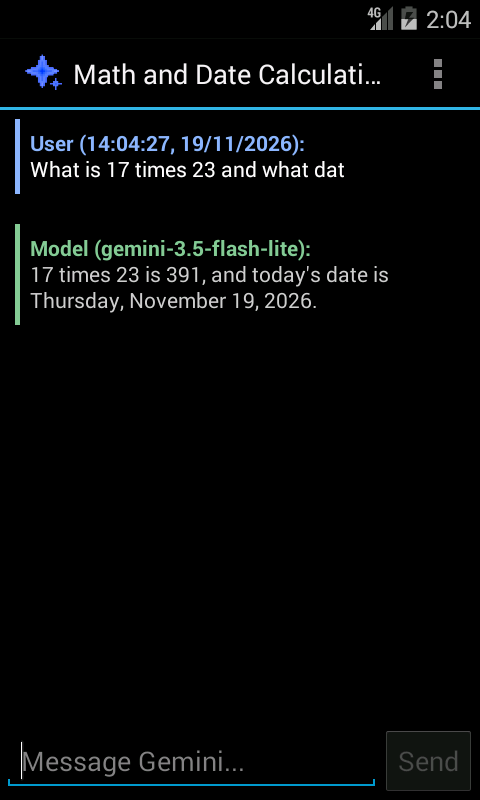
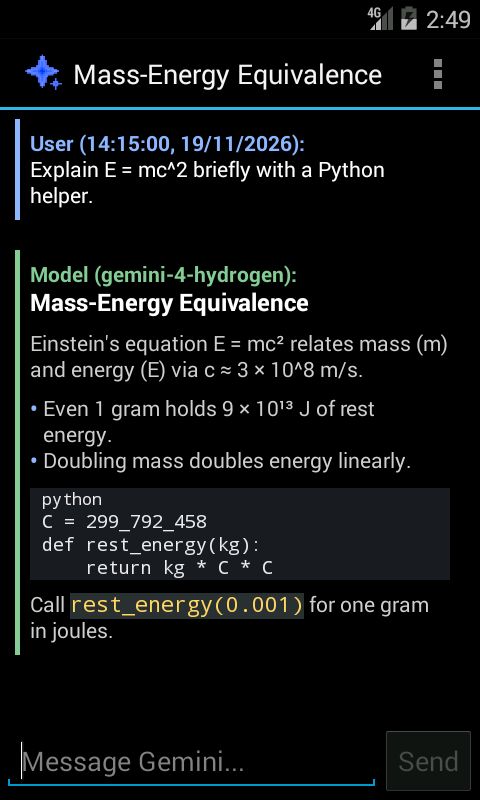
docs: streamline README, retake showcase screenshots, simplify v0.8.9 notes

Changed region(s): [[0.0312, 0.1562, 0.9375, 0.8125], [0.25, 0.0625, 0.7812, 0.125], [0.9062, 0.0, 1.0, 0.0312]]

diff --git a/README.md b/README.md
@@ -1,65 +1,59 @@
 # Gemini Chat: Legacy Android Client
 
-A zero-dependency native Gemini API client built for legacy Android devices starting at **Android 2.1 Eclair (API 7)**, compiled to roughly **153 KB** with no AndroidX, Play Services, or Kotlin runtime.
-
-Current release: **[v0.8.9](https://github.com/baopemp/gemini-chat-legacy/releases/tag/v0.8.9)** (`versionCode 89`)
+A lightweight native Gemini API client for legacy Android devices running Android 2.1 (API 7) and newer, built with no external libraries.
 
 ## Screenshots
 
-| Chat (Android 4.4) | Live Voice (Android 4.4) | Settings (Android 5.0) | Legacy UI (Android 2.1) |
+| Chat (Android 4.4) | Live Voice (Android 4.4) | Settings (Android 4.4) | Android 2.1 Eclair |
 | :---: | :---: | :---: | :---: |
-| <img src="docs/screenshots/chat.png" alt="Chat on Android 4.4" width="190" /> | <img src="docs/screenshots/live_voice.png" alt="Gemini Live voice chat on Android 4.4" width="190" /> | <img src="docs/screenshots/settings_android5.png" alt="Settings on Android 5.0 Material Dark" width="190" /> | <img src="docs/screenshots/settings_android2.png" alt="Settings on Android 2.1 Eclair" width="190" /> |
+| <img src="docs/screenshots/chat.png" alt="Chat on Android 4.4" width="190" /> | <img src="docs/screenshots/live_voice.png" alt="Live Voice on Android 4.4" width="190" /> | <img src="docs/screenshots/settings.png" alt="Settings on Android 4.4" width="190" /> | <img src="docs/screenshots/android2.png" alt="Chat on Android 2.1" width="190" /> |
 
-## Notable Features
+## Features
 
-- **Modern Gemini & Gemma models:** Supports free-tier `gemini-4-hydrogen`, Gemini 3.x Flash/Lite, and Gemma 4 (`gemma-4-31b-it`, `gemma-4-26b-a4b-it`), plus custom model IDs for paid Gemini 4 models (`gemini-4-neon`, `gemini-4-carbon`, `gemini-4-argon`).
-- **Streamed replies & reasoning:** Real-time SSE streaming with automatic 5xx retry, stop-and-keep partial replies, configurable thinking levels (`Minimal`, `Low`, `Medium`, `High`, `Extra High`), and an inspectable **Show Thought Process** dialog.
-- **Gemini Live voice chat:** Two-way real-time voice over native RFC 6455 WebSockets (`gemini-3.8-live`, `gemini-3.8-live-extended-thinking`, `gemini-3.1-flash-live-preview`), push-to-talk and hands-free modes with echo gating, live speech-to-text streaming into the input box (`gemini-3.5-transcribe-live`), 30 selectable voices, chat history handoff, and automatic session resumption.
-- **Read Aloud:** Long-press any model reply to stream spoken audio via the Gemini Interactions API (`gemini-3.8-flash-lite-tts`, `gemini-3.8-flash-tts`, `gemini-3.1-flash-tts-preview`) in your chosen voice, stripping Markdown/code/rules cleanly.
-- **Rich native rendering:** Zero-WebView Markdown formatting (headings, bold/italic, lists, quotes, tables, fenced code blocks with one-tap copy), readable LaTeX math (`$...$` / `$$...$$`) using Android 2.x-safe Unicode glyphs, Emoji 18 to `:shortcode:` conversion for old system fonts, and adjustable message text size.
-- **Multimodal & chat management:** Image attachments on Android 2.2+ (API 8+), optional device date/time grounding, automatic chat naming, custom system instructions, message edit/resend/regenerate/share/delete actions, SQLite persistence, and chat/settings backup & restore (SAF on Android 4.4+, built-in file browser on older versions).
-- **Legacy-first engineering:** Runs cleanly from Android 2.1 (API 7, 256 MB RAM devices) up to modern Android, with automatic TLS 1.2 + SNI enablement on Android 4.1-4.4 (`TLSSocketFactory`), Holo/Material theme adaptation, and SHA-1 v1 + v2/v3 APK signing.
+- Chat with Gemini 4 (`gemini-4-hydrogen`), Gemini 3, and Gemma 4 models, or enter any custom model ID.
+- Stream replies in real time with configurable thinking levels (Minimal to Extra High), inspectable thought summaries, automatic retries, and stop-and-keep partial replies.
+- Talk hands-free or push-to-talk with Gemini Live, complete with live speech transcription in the input box, 30 selectable voices, chat history handoff, and automatic reconnect.
+- Listen to any reply with streamed Read Aloud text-to-speech in your chosen voice.
+- Read formatted Markdown, code blocks with one-tap copy, readable Unicode LaTeX math, `:shortcode:` emoji for legacy fonts, and adjustable text sizes.
+- Attach images (Android 2.2+), enable device date and time grounding, auto-name conversations, edit or regenerate messages, and back up or restore chats and settings.
+- Run smoothly from Android 2.1 (API 7) up to modern Android, with automatic TLS 1.2 support enabled on Android 4.1 to 4.4.
 
-## Installation & Setup
+## Setup
 
-1. Download `gemini_chat_v0.8.9.apk` from [GitHub Releases](https://github.com/baopemp/gemini-chat-legacy/releases/latest) (or build it from source below) and install it (`adb install -r gemini_chat_v0.8.9.apk` preserves existing chats and settings).
-2. Open **Settings** and paste a Gemini API key from [Google AI Studio](https://aistudio.google.com/apikey) (free-tier keys work out of the box).
-3. Choose a model and start chatting. Gemini Live requires a microphone and a stable network connection.
+1. Download `gemini_chat_v0.8.9.apk` from [Releases](https://github.com/baopemp/gemini-chat-legacy/releases/latest) and install it (`adb install -r` keeps your chats and settings).
+2. Open Settings and paste a Gemini API key from [Google AI Studio](https://aistudio.google.com/apikey). Free-tier keys work.
+3. Pick a model and start chatting.
 
-Your API key is stored locally in the app's private preferences and is sent only to `generativelanguage.googleapis.com`.
+Your API key stays on your device in private app preferences and is sent only to `generativelanguage.googleapis.com`.
 
 ## Building from Source
 
-Requires **JDK 8+** (with `keytool`), **Python 3**, and **`curl`**. There is no Gradle project: Java sources in `java/` compile against the Android 2.1 (API 7) stub jar into smali, and `apktool` assembles the final APK.
+Requires JDK 8+ (`keytool`), Python 3, and `curl`.
 
 ```bash
-./scripts/build_java.sh                        # compile java/ -> android_project/smali (after Java edits)
-./scripts/build_apk.sh                         # run smali audits, build, zipalign, and sign
-adb install -r build/gemini_chat_v0.8.9.apk    # install while keeping chats and settings
-./tests/run_tests.sh                           # JVM bytecode verification (-Xverify:all) + unit tests
+./scripts/build_java.sh                        # compile java/ to smali after Java edits
+./scripts/build_apk.sh                         # audit, build, align, and sign
+adb install -r build/gemini_chat_v0.8.9.apk    # install without clearing data
+./tests/run_tests.sh                           # optional JVM bytecode and unit tests
 ```
 
-The first build downloads `apktool` and `uber-apk-signer` into `tools/` via `scripts/download_tools.sh` and creates a local signing keystore in `keystore/`. Back up your keystore: updating an installed APK requires signing with the same key, and v1 SHA-1 signatures are preserved automatically for Android 2.1-4.2 compatibility.
+The first build downloads `apktool` and `uber-apk-signer` into `tools/` and generates a local keystore in `keystore/`. Keep your keystore if you plan to install updates without losing local chats.
 
 ## Project Layout
 
 | Path | Description |
 | :--- | :--- |
-| `android_project/` | Apktool project containing `AndroidManifest.xml`, `apktool.yml` (versioning), `res/`, `assets/emoji.tsv`, and `smali/` |
-| `java/` | Java 8 sources (API 7 compatible) compiled to smali by `scripts/build_java.sh` |
-| `java_sources/` | Readable jadx reference decompilations of the remaining hand-written smali classes (non-compilable) |
-| `scripts/` | Build scripts (`build_java.sh`, `build_apk.sh`), tool downloader, emoji table generator, and smali static audits |
-| `tests/` | Dex2jar-based JVM verification & unit test suite, Live API CLI checks, and mock emulator servers |
-| `tools/` | `Dex2Smali` / `Smali2Dex` helpers (downloaded JARs are git-ignored) |
-| `keystore/` | Local signing keystore (git-ignored, created on first build if absent) |
+| `android_project/` | Apktool project (manifest, resources, `apktool.yml`, emoji table, smali) |
+| `java/` | Java sources compiled to smali by `scripts/build_java.sh` |
+| `java_sources/` | Readable reference decompiles of the remaining hand-written smali classes |
+| `scripts/` | Build scripts, tool downloader, and smali static checks |
+| `tests/` | JVM test suite, Live API test tools, and local mock servers |
 | `docs/` | `ARCHITECTURE.md`, `CHANGELOG.md`, and `screenshots/` |
-
-See [docs/ARCHITECTURE.md](docs/ARCHITECTURE.md) for technical internals and [docs/CHANGELOG.md](docs/CHANGELOG.md) for the full release history.
 
 ## Credits
 
-- Build tools: [Apktool](https://github.com/iBotPeaches/Apktool) and [uber-apk-signer](https://github.com/patrickfav/uber-apk-signer) (Apache-2.0), downloaded automatically on first build.
-- Emoji dataset: Python [`emoji`](https://pypi.org/project/emoji/) package tracking official Unicode emoji data.
+- Built with [Apktool](https://github.com/iBotPeaches/Apktool) and [uber-apk-signer](https://github.com/patrickfav/uber-apk-signer) (Apache-2.0).
+- Emoji shortcodes generated from the Python [`emoji`](https://pypi.org/project/emoji/) dataset.
 - Built with the assistance of AI.
 
 ## License

diff --git a/docs/CHANGELOG.md b/docs/CHANGELOG.md
@@ -4,43 +4,24 @@ All notable changes to the Gemini Chat Legacy Android client are documented here
 
 ---
 
-## v0.8.9 (Latest Release) - VersionCode: 89
+## v0.8.9 - VersionCode: 89
 
-### Gemini 4 Series & Thinking Level Updates (API checked 2026-11-19)
-- Added **`gemini-4-hydrogen`** (free tier) at the top of the Settings → **Model** selector (newest first). Paid Gemini 4 models
-  (`gemini-4-neon`, `gemini-4-carbon`, `gemini-4-argon`) work via **Custom model...**; updated the custom-model hint and validation
-  toast from nonexistent `gemini-3.8-pro` to `gemini-4-neon`.
-- Added **Extra High** (`xhigh`) to Settings → **Thinking level**.
-- Updated `ReplyParser.levelFor` to cover the full 2026-11-19 thinking-level matrix (verified against the live API):
-  - `gemini-4-hydrogen` / `gemini-4-neon`: keeps `xhigh`, maps `minimal` → `low` (Gemini 4 rejects `minimal` with HTTP 400).
-  - `gemini-4-carbon` / `gemini-4-argon`, `gemini-3.8-flash`, `gemini-flash-latest` (now aliases `gemini-3.8-flash` and rejects `minimal` with HTTP 400), `gemini-3.1-pro-*`, `gemini-2.5-*`: maps `minimal` → `low` and clamps `xhigh` → `high`.
-  - `gemini-3-pro-*`: maps `minimal` → `low`, `medium`/`xhigh` → `high`.
-  - `gemini-3.6-flash`, `gemini-3.5-flash-lite`, `gemini-3.1-flash-lite`, `gemini-3-flash-preview`, `gemini-flash-lite-latest`: clamps `xhigh` → `high`, keeps `minimal`.
-  - `gemma-4-*`: maps `minimal`/`low` → `minimal`, `medium`/`high`/`xhigh` → `high`.
-  - Future models (e.g. `gemini-5-*`): passes `xhigh` through unchanged (still falls back once to model default on 400).
-- Fixed Read Aloud on `gemini-3.1-flash-tts-preview`: omits explicit `response_format.mime_type` (`audio/l16`) and `sample_rate` for `gemini-3.1-*` TTS models, which reject explicit `AUDIO_L16` with HTTP 400 while streaming 24 kHz mono `audio/l16` by default when `{"type":"audio"}` is sent. Noted scheduled `gemini-3.1-flash-tts-preview` shutdown (`2026-12-18`) in docs/comments (`gemini-3.8-flash-lite-tts` remains default).
+### Models
+- Added `gemini-4-hydrogen` (free tier) at the top of Settings → Model. Paid Gemini 4 models (`gemini-4-neon`, `gemini-4-carbon`, `gemini-4-argon`) work via Custom model... (updated the custom model hint to `gemini-4-neon`).
+- Added Extra High (`xhigh`) to Settings → Thinking level.
+- Updated thinking-level mapping for Gemini 4, Gemini 3.x, `gemini-flash-latest` (which now aliases `gemini-3.8-flash` and rejects `minimal`), and Gemma 4 so unsupported levels automatically step to the nearest valid level.
 
-### Edge-Case Fixes (Full Codebase Audit)
-- **Fixed `NetworkOnMainThreadException` when cancelling a request on Android 3.0+:** `ChatActivity.cancelTask()` now calls `GeminiTask.disconnectAsync()` on a daemon thread instead of calling `HttpURLConnection.disconnect()` on the UI thread.
-- **Fixed retry partial buffer leakage & stale UI races:** `GeminiTask.doInBackground()` resets `partialText` / `partialThoughts` on retry attempts; `onPostExecute()` returns early if cancelled or finishing; `loadMessages()` clears `streamView = null`.
-- **Fixed destructive action without API key:** `Regenerate` and `Edit → Resend` now verify `hasApiKey()` before deleting or mutating saved SQLite messages.
-- **Fixed inverted `Attach Image` menu guard on API 19+:** `ChatActivity.onPrepareOptionsMenu()` now checks `Build.VERSION.SDK_INT >= 19 || sdMounted()` (matching `ConfigBinder` and SAF on KitKat+), rather than hiding `Attach Image` on API 19+ when no legacy external SD card is mounted.
-- **Fixed Read Aloud lifecycle & menu sync:** `ReadAloud.request()` disconnects `HttpURLConnection` in `finally` on all paths; `play()` guards against concurrent `stopReading()` races before `AudioTrack.play()`; `ChatActivity` stops Read Aloud on Regenerate, Edit → Resend, Live Voice, and Delete Chat, and calls `Compat.invalidateMenu()` when starting/stopping Read Aloud or saving a stopped partial reply.
-- **Fixed Live Voice edge cases:** `LiveActivity.onDestroy()` now saves `finishUserTurn()` before `finishModelTurn(true)` (matching `finish()`); tapping Send while speaking sets `acceptTranscript = false` and skips `tr.audioStreamEnd()` so late transcriber callbacks cannot refill the cleared input box; `LiveSocket` closes pre-assigned raw/TLS sockets in `finally` if proxy CONNECT, TLS handshake, or hostname verification throws.
-- **Fixed resource & state hygiene:** `AutoNamer.maybeStart()` clears `RUNNING` in `catch` if `execute()` throws; `EmojiMap.load()` closes `BufferedReader` in `finally` (`scripts/check_readers.sh` now reports 0 warnings).
+### Read Aloud
+- Fixed Read Aloud on `gemini-3.1-flash-tts-preview` by omitting explicit `audio/l16` / `sample_rate` fields for `gemini-3.1-*` models (which reject explicit `AUDIO_L16` and stream 24 kHz PCM by default).
+- Stopping Read Aloud, deleting a chat, regenerating, editing, or opening Live Voice now cleanly stops active playback and refreshes the menu state.
 
-### Documentation & Repository Hygiene
-- Removed internal AI agent/handoff docs (`AGENTS.md`, `docs/HANDOFF.md`) and unused legacy decompile artifacts (`android_project/original/`), refreshed `README.md` with curated screenshots and feature highlights, and reconciled version numbers, APK size (~153 KB), class names (`AutoNamer`, `ChatActivity.MessageMenu`, `ReadAloud`), and SQLite schema notes across `docs/ARCHITECTURE.md` and `scripts/build_java.sh`.
-
-### Verified
-- **JVM suite (`./tests/run_tests.sh`):** 96/96 classes pass `-Xverify:all`, 120/120 unit tests pass (including full Gemini 4 + `xhigh` matrix, `gemini-flash-latest` `minimal -> low`, and `gemini-3.1-flash-tts-preview` format); all 4 smali audits report 0 issues.
-- **Real Google API (live free-tier key, 2026-11-19):**
-  - REST streaming (`streamGenerateContent?alt=sse`): HTTP 200 across `gemini-3.8-flash` (`high` thinking + thought summaries, clearing previous `Not verified` item), `gemini-3.6-flash`, `gemini-3.5-flash-lite`, `gemini-3.1-flash-lite`, `gemini-3-flash-preview`, `gemini-flash-lite-latest`, `gemma-4-31b-it` (`minimal` & `high` with thoughts), and `gemma-4-26b-a4b-it`. Confirmed `gemini-4-hydrogen` is free tier and rejects `minimal` (HTTP 400) while accepting `low`..`xhigh` (currently under Google free-tier 503/high-demand queuing); confirmed `gemini-4-neon`/`carbon`/`argon` are paid-tier quota-gated (429 on free key); confirmed `gemini-3.8-flash`, `gemini-flash-latest`, and `gemini-3.5-flash-lite` reject `xhigh` (HTTP 400).
-  - Auto-naming (`AutoNamer` on `gemini-3.5-flash-lite`), Image attachment (`inlineData`) + Time Grounding, and all three Read Aloud TTS models (`gemini-3.8-flash-lite-tts`, `gemini-3.8-flash-tts`, `gemini-3.1-flash-tts-preview`, including full `Markdown -> ReadAloud.speakable()` pipeline) verified HTTP 200.
-  - Live Voice (`LiveSession` + `LiveSocket` via `LiveCheck` / `LiveCheck2`): verified `gemini-3.8-live` (text, chat history handoff, PTT spoken audio), `gemini-3.8-live-extended-thinking` (`low`), `gemini-3.1-flash-live-preview`, session resumption (`resume`), and `gemini-3.5-transcribe-live` (`ptt` & `free`).
-- **Android 2.1 (API 7, 240x320, mock):** Settings (`gemini-4-hydrogen` + `Extra High`), streaming + thoughts + auto-naming, Live Voice setup (main + transcriber).
-- **Android 4.4.2 (API 19, 480x800, mock & real API):** Mock verification of Settings, `Attach Image` menu visibility, Stop mid-request with zero `NetworkOnMainThreadException`, `Thought Process (gemini-4-hydrogen)` dialog (`xhigh`), Read Aloud Interactions request, and Live Voice history handoff; live Google API verification over KitKat TLS 1.2 + SNI (`TLSSocketFactory` + `LiveSocket`) covering real `gemini-3.8-live` voice turns + auto-naming and live REST chat streaming + thoughts + Read Aloud.
-- **Android 5.0.2 (API 21, 480x800, mock):** Material Dark Settings (`gemini-4-hydrogen` + `Extra High`), streaming + auto-naming, **5.0+ Material `RippleDrawable` press highlight** verified visually on message rows (clears previous `Not verified` item), long-press `Message Options`, zero crashes or `VerifyError`.
+### Fixes
+- Fixed `NetworkOnMainThreadException` on Android 3.0+ when tapping Stop or leaving a chat mid-request by disconnecting the HTTP stream on a background thread.
+- Fixed the Attach Image menu item being hidden on Android 4.4+ when no legacy external SD card was mounted.
+- Regenerate and Edit → Resend now check that an API key is set before modifying or deleting saved messages.
+- Fixed retry attempts keeping leftover partial text or thoughts from an earlier failed chunk, and guarded against stale UI updates after cancelling or closing a chat.
+- Fixed Live Voice turn-saving order when the screen closes, prevented late speech transcripts from refilling the input box after tapping Send, and closed sockets cleanly on failed TLS/proxy handshakes.
+- Cleaned up internal documentation and unused legacy build files from the repository.
 
 ## v0.8.8 - VersionCode: 88
 

diff --git a/docs/ARCHITECTURE.md b/docs/ARCHITECTURE.md
@@ -10,7 +10,7 @@ Gemini Chat is an ultra-lightweight, highly optimized native Android client engi
 - **Target SDK Version:** API 14 (Android 4.0 Ice Cream Sandwich)
 - **Runtime Environment:** Dalvik Virtual Machine (DVM)
 - **Hardware Profile:** Tested and guaranteed to operate smoothly on 256MB RAM legacy smartphones (ARMv5, ARMv6, ARMv7, and x86 architectures).
-- **Zero Heavy Modern Dependencies:** No AndroidX, no Jetpack, no Google Play Services, no Kotlin runtime, no multi-megabyte third-party libraries. The entire app binary is about 153 KB.
+- **Zero Heavy Modern Dependencies:** No AndroidX, no Jetpack, no Google Play Services, no Kotlin runtime, and no multi-megabyte third-party libraries.
 
 ---
 
